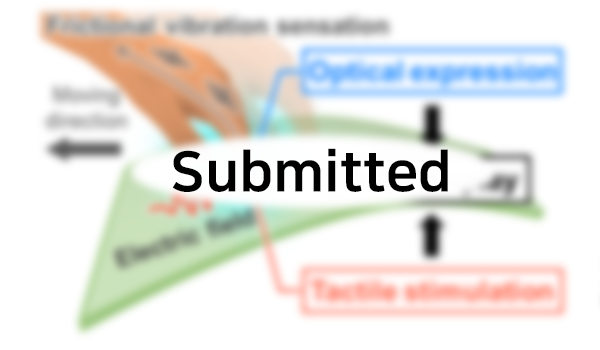
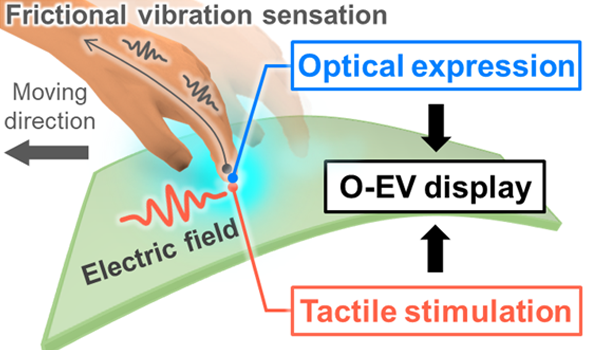
Update adom and index page
Update adom and index page

diff --git a/index.html b/index.html
@@ -91,7 +91,7 @@
                         <a href="./research.html#haptic-interaction">
                             <div class="card hoverable research-card">
                                 <div class="card-image">
-                                    <img src="./static/img/research_area/Area_haptic_AR.png">
+                                    <img src="./static/img/research_area/Area_haptic_perception.png">
                                     <div class="card-content">
                                         <div class="research-title">
                                             Haptic Perception
@@ -147,6 +147,31 @@
                     <h2 class="section-title">SELECTED PUBLICATIONS</h2>
                 </div>
 
+
+                <!-- ADOM -->
+                <div class="row">
+                    <div class="col s8 offset-s2 m3 l2">
+                        <img class="responsive-img" src="./static/img/publications/adom2023.png">
+                    </div>
+                    <div class="col s12 m9 l10">
+                        <div class="publicaion-description">
+                            <div class="publication-title">
+                                Intrinsically Synchronized Flexible Visuo-Haptic Device Operated by Single External Electric Field
+                            </div>
+                            <div class="publication-authors">
+                                Gilwoon Lee*, <span class="my-name">Chaeyong Park*</span>, Doowon Park, Seungmoon Choi, and Unyong Jeong. (*equal contribution)
+                            </div>
+                            <div class="publication-informations">
+                                In Advanced Optical Materials. 2023 (Accepted; IF=10.050)  
+                            </div>
+                        </div>
+                        <div class="publication-buttons">
+                            <a class="waves-effect waves-light btn main-color disabled" href=""><i class="tiny material-icons left">folder_open</i>Project</a>
+                            <a class="waves-effect waves-light btn cy-red disabled" href="" target="_blank"><i class="tiny material-icons left">description</i>Paper</a>
+                        </div>
+                    </div>
+                </div>
+
                 <!-- CHI2022 -->
                 <div class="row">
                     <div class="col s8 offset-s2 m3 l2">
@@ -191,31 +216,6 @@
                         <div class="publication-buttons">
                             <a class="waves-effect waves-light btn main-color" href="./P_TOH2021_lengthperception.html"><i class="tiny material-icons left">folder_open</i>Project</a>
                             <a class="waves-effect waves-light btn cy-red" href="https://doi.org/10.1109/TOH.2021.3077709" target="_blank"><i class="tiny material-icons left">description</i>Paper</a>
-                        </div>
-                    </div>
-                </div>
-
-
-                <!-- UIST2020 -->
-                <div class="row">
-                    <div class="col s8 offset-s2 m3 l2">
-                        <img class="responsive-img" src="./static/img/publications/uist2020.png">
-                    </div>
-                    <div class="col s12 m9 l10">
-                        <div class="publicaion-description">
-                            <div class="publication-title">
-                                Augmenting Physical Buttons with Vibrotactile Feedback for Programmable Feels
-                            </div>
-                            <div class="publication-authors">
-                                <span class="my-name">Chaeyong Park</span>, Jinhyuk Yoon, Seungjae Oh, and Seungmoon Choi
-                            </div>
-                            <div class="publication-informations">
-                                In Proceedings of the Annual ACM Symposium on User Interface Software and Technology (Virtual Event, USA, October 20-23, 2020). UIST’20. ACM
-                            </div>
-                        </div>
-                        <div class="publication-buttons">
-                            <a class="waves-effect waves-light btn main-color" href="./P_UIST2020_augmentedbutton.html"><i class="tiny material-icons left">folder_open</i>Project</a>
-                            <a class="waves-effect waves-light btn cy-red" href="http://dx.doi.org/10.1145/3379337.3415837" target="_blank"><i class="tiny material-icons left">description</i>Paper</a>
                         </div>
                     </div>
                 </div>

diff --git a/publications.html b/publications.html
@@ -62,30 +62,6 @@
                     <h2 class="section-title">UNDER REVIEW</h2>
                 </div>
 
-                <!-- ADOM -->
-                <div class="row">
-                    <div class="col s8 offset-s2 m3 l2">
-                        <img class="responsive-img" src="./static/img/publications/adom2023.png">
-                    </div>
-                    <div class="col s12 m9 l10">
-                        <div class="publicaion-description">
-                            <div class="publication-title">
-                                [JX] Intrinsically Synchronized Flexible Visuo-Haptic Device Operated by Single External Electric Field
-                            </div>
-                            <div class="publication-authors">
-                                Gilwoon Lee*, <span class="my-name">Chaeyong Park*</span>, Doowon Park, Seungmoon Choi, and Unyong Jeong.
-                            </div>
-                            <div class="publication-informations">
-                                In Advanced Optical Materials (In revision)  
-                            </div>
-                        </div>
-                        <div class="publication-buttons">
-                            <a class="waves-effect waves-light btn main-color disabled" href=""><i class="tiny material-icons left">folder_open</i>Project</a>
-                            <a class="waves-effect waves-light btn cy-red disabled" href="" target="_blank"><i class="tiny material-icons left">description</i>Paper</a>
-                        </div>
-                    </div>
-                </div>
-
                 <!-- ToH -->
                 <div class="row">
                     <div class="col s8 offset-s2 m3 l2">
@@ -112,6 +88,30 @@
 
                 <div class="section-header">
                     <h2 class="section-title">PUBLICATIONS</h2>
+                </div>
+
+                <!-- ADOM -->
+                <div class="row">
+                    <div class="col s8 offset-s2 m3 l2">
+                        <img class="responsive-img" src="./static/img/publications/adom2023.png">
+                    </div>
+                    <div class="col s12 m9 l10">
+                        <div class="publicaion-description">
+                            <div class="publication-title">
+                                [J4] Intrinsically Synchronized Flexible Visuo-Haptic Device Operated by Single External Electric Field
+                            </div>
+                            <div class="publication-authors">
+                                Gilwoon Lee*, <span class="my-name">Chaeyong Park*</span>, Doowon Park, Seungmoon Choi, and Unyong Jeong. (*equal contribution)
+                            </div>
+                            <div class="publication-informations">
+                                In Advanced Optical Materials. 2023 (Accepted; IF=10.050)  
+                            </div>
+                        </div>
+                        <div class="publication-buttons">
+                            <a class="waves-effect waves-light btn main-color disabled" href=""><i class="tiny material-icons left">folder_open</i>Project</a>
+                            <a class="waves-effect waves-light btn cy-red disabled" href="" target="_blank"><i class="tiny material-icons left">description</i>Paper</a>
+                        </div>
+                    </div>
                 </div>
 
                 <!-- Eurohaptics 2022 -->

diff --git a/research.html b/research.html
@@ -166,7 +166,7 @@
                                         Opto-electrovibration Display
                                     </div>
                                     <div class="research-description">
-                                        Advanced Optical Materials (In Revision)
+                                        Advanced Optical Materials 2023 (Accepted)
                                     </div>
                                 </div>
                             </div>
